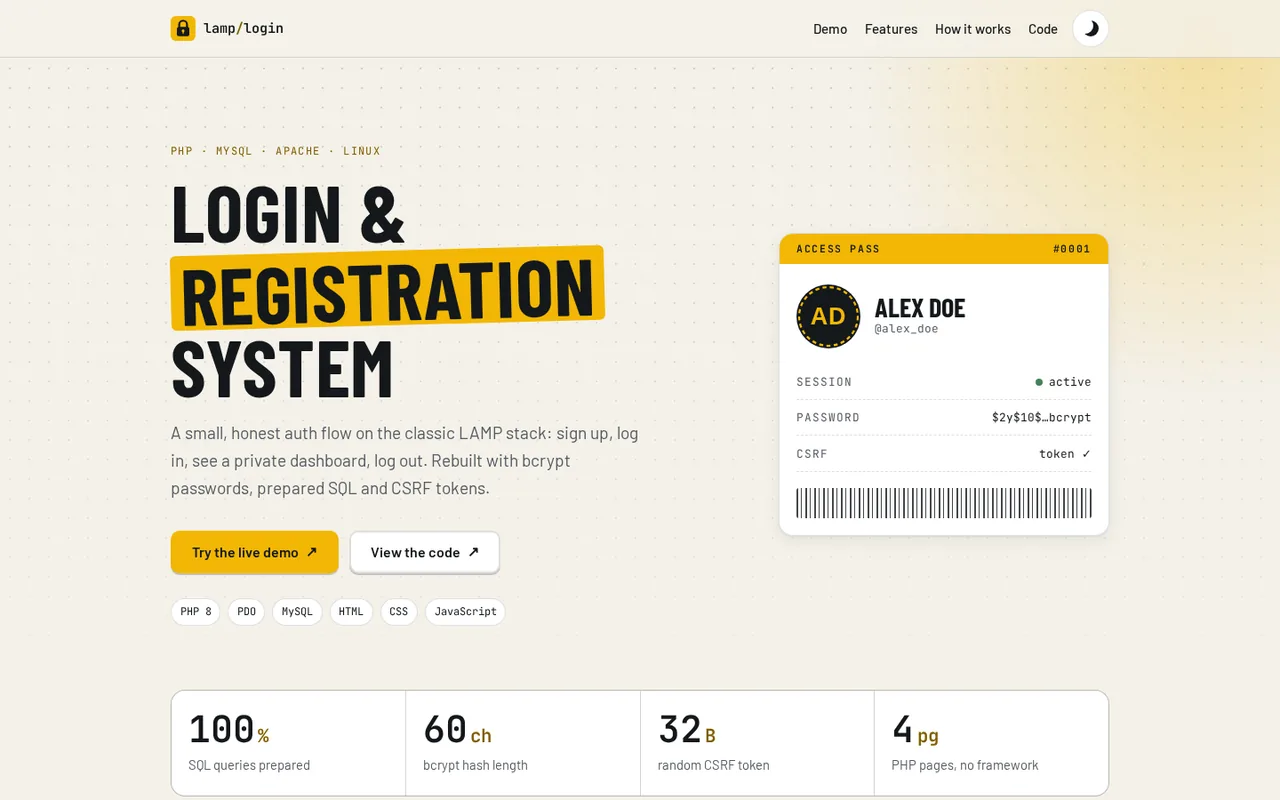
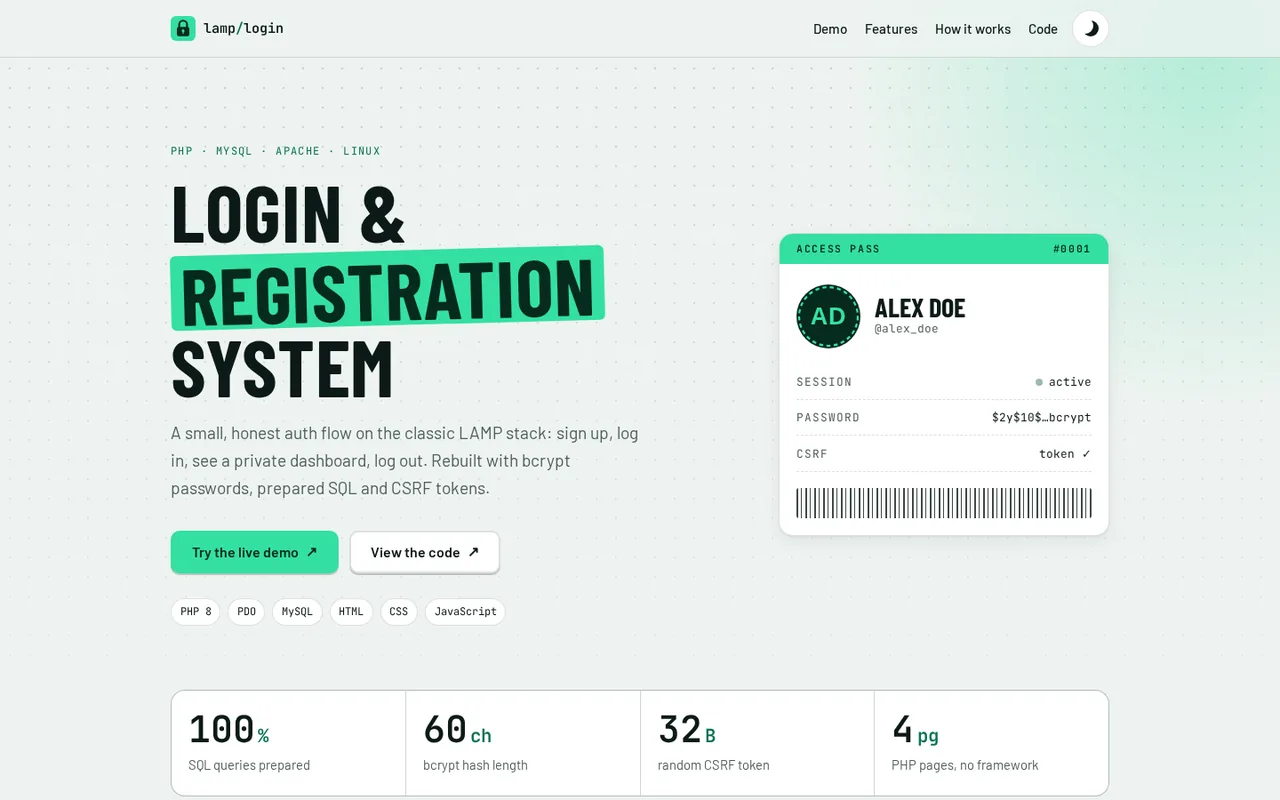
Switch accent palette from yellow to mint green (#2)
New "access granted" mint accent (#34e0a1 with #062a1e text) and
cool green-grey neutrals for light and dark themes. Updates favicon,
avatar, theme-color and the README screenshot. All text/background
pairs stay above WCAG AA 4.5:1.

Claude-Session: https://claude.ai/code/session_01A6wx66FDb5YE1iHLL19nMR

diff --git a/assets/css/style.css b/assets/css/style.css
@@ -6,23 +6,23 @@
   --font-body: "Barlow", system-ui, -apple-system, "Segoe UI", sans-serif;
   --font-mono: "JetBrains Mono", ui-monospace, "SFMono-Regular", Consolas, monospace;
 
-  --accent: #f2b705;
-  --on-accent: #14181b;
+  --accent: #34e0a1;
+  --on-accent: #062a1e;
 
-  --bg: #f4f1e9;
+  --bg: #edf3f0;
   --surface: #ffffff;
-  --surface-2: #ebe6d9;
-  --text: #14181b;
-  --muted: #545b63;
-  --line: rgba(20, 24, 27, 0.14);
-  --dot: rgba(20, 24, 27, 0.17);
-  --accent-text: #7f5f00;
-  --glow: rgba(242, 183, 5, 0.42);
-  --shadow: 0 1px 2px rgba(20, 24, 27, 0.06), 0 6px 18px rgba(20, 24, 27, 0.07);
-  --shadow-lift: 0 4px 8px rgba(20, 24, 27, 0.08), 0 22px 44px rgba(20, 24, 27, 0.16);
+  --surface-2: #dde8e3;
+  --text: #0c1a17;
+  --muted: #4d5f59;
+  --line: rgba(12, 26, 23, 0.14);
+  --dot: rgba(12, 26, 23, 0.17);
+  --accent-text: #0a7350;
+  --glow: rgba(52, 224, 161, 0.38);
+  --shadow: 0 1px 2px rgba(12, 26, 23, 0.06), 0 6px 18px rgba(12, 26, 23, 0.07);
+  --shadow-lift: 0 4px 8px rgba(12, 26, 23, 0.08), 0 22px 44px rgba(12, 26, 23, 0.16);
   --danger: #a3241c;
   --danger-bg: #fbe9e6;
-  --ok: #1b6932;
+  --ok: #17603f;
   --ok-bg: #e3f3e6;
 
   --radius: 16px;
@@ -33,15 +33,15 @@
 
 @media (prefers-color-scheme: dark) {
   :root:not([data-theme="light"]) {
-    --bg: #0f1215;
-    --surface: #171b1f;
-    --surface-2: #1f2429;
-    --text: #eef0f2;
-    --muted: #a0a8b0;
+    --bg: #0a1311;
+    --surface: #111c19;
+    --surface-2: #182622;
+    --text: #e8f2ee;
+    --muted: #98aba4;
     --line: rgba(255, 255, 255, 0.11);
     --dot: rgba(255, 255, 255, 0.09);
-    --accent-text: #f2b705;
-    --glow: rgba(242, 183, 5, 0.26);
+    --accent-text: #34e0a1;
+    --glow: rgba(52, 224, 161, 0.2);
     --shadow: 0 1px 2px rgba(0, 0, 0, 0.4), 0 8px 22px rgba(0, 0, 0, 0.3);
     --shadow-lift: 0 4px 10px rgba(0, 0, 0, 0.45), 0 24px 48px rgba(0, 0, 0, 0.5);
     --danger: #ff9b8f;
@@ -53,15 +53,15 @@
 }
 
 :root[data-theme="dark"] {
-  --bg: #0f1215;
-  --surface: #171b1f;
-  --surface-2: #1f2429;
-  --text: #eef0f2;
-  --muted: #a0a8b0;
+  --bg: #0a1311;
+  --surface: #111c19;
+  --surface-2: #182622;
+  --text: #e8f2ee;
+  --muted: #98aba4;
   --line: rgba(255, 255, 255, 0.11);
   --dot: rgba(255, 255, 255, 0.09);
-  --accent-text: #f2b705;
-  --glow: rgba(242, 183, 5, 0.26);
+  --accent-text: #34e0a1;
+  --glow: rgba(52, 224, 161, 0.2);
   --shadow: 0 1px 2px rgba(0, 0, 0, 0.4), 0 8px 22px rgba(0, 0, 0, 0.3);
   --shadow-lift: 0 4px 10px rgba(0, 0, 0, 0.45), 0 24px 48px rgba(0, 0, 0, 0.5);
   --danger: #ff9b8f;
@@ -339,7 +339,7 @@ code,
   text-decoration: none;
   cursor: pointer;
   isolation: isolate;
-  box-shadow: 0 2px 0 rgba(20, 24, 27, 0.22);
+  box-shadow: 0 2px 0 rgba(12, 26, 23, 0.22);
   transition: transform 0.18s var(--ease);
 }
 
@@ -350,7 +350,7 @@ code,
   inset: 0;
   z-index: -1;
   border-radius: inherit;
-  box-shadow: 0 14px 30px -6px var(--glow), 0 6px 12px rgba(20, 24, 27, 0.18);
+  box-shadow: 0 14px 30px -6px var(--glow), 0 6px 12px rgba(12, 26, 23, 0.18);
   opacity: 0;
   transition: opacity 0.2s ease;
 }

diff --git a/index.html b/index.html
@@ -5,7 +5,7 @@
     <meta name="viewport" content="width=device-width, initial-scale=1">
     <title>LAMP Login &amp; Registration System</title>
     <meta name="description" content="A secure PHP + MySQL login and registration system with bcrypt passwords, prepared statements, CSRF protection and a live in-browser demo.">
-    <meta name="theme-color" content="#f2b705">
+    <meta name="theme-color" content="#34e0a1">
     <link rel="icon" href="favicon.svg" type="image/svg+xml">
     <meta property="og:title" content="LAMP Login &amp; Registration System">
     <meta property="og:description" content="Secure PHP + MySQL auth: bcrypt, prepared statements, CSRF tokens. Try the live demo.">
